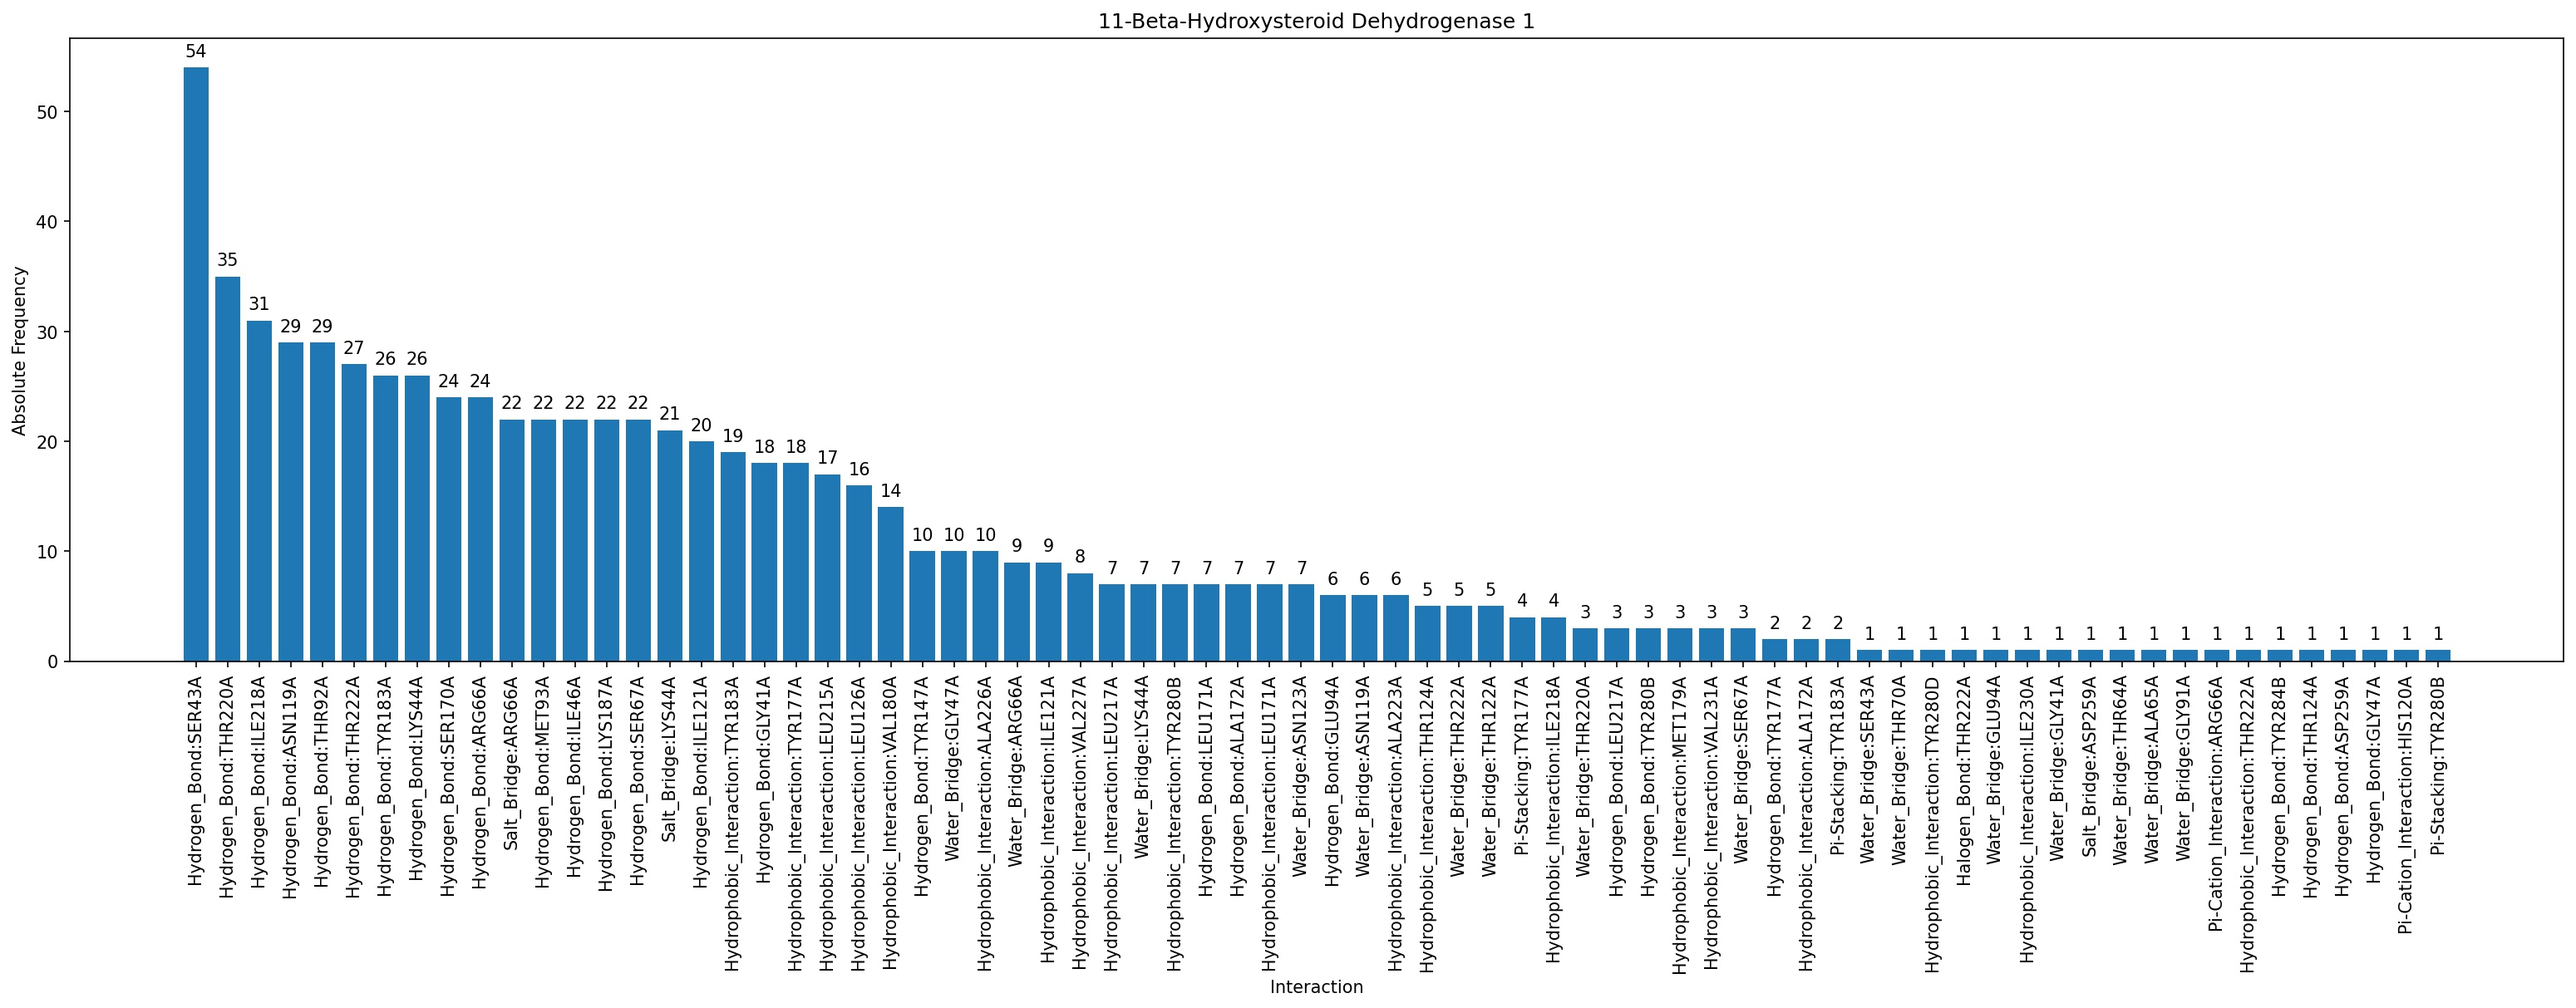
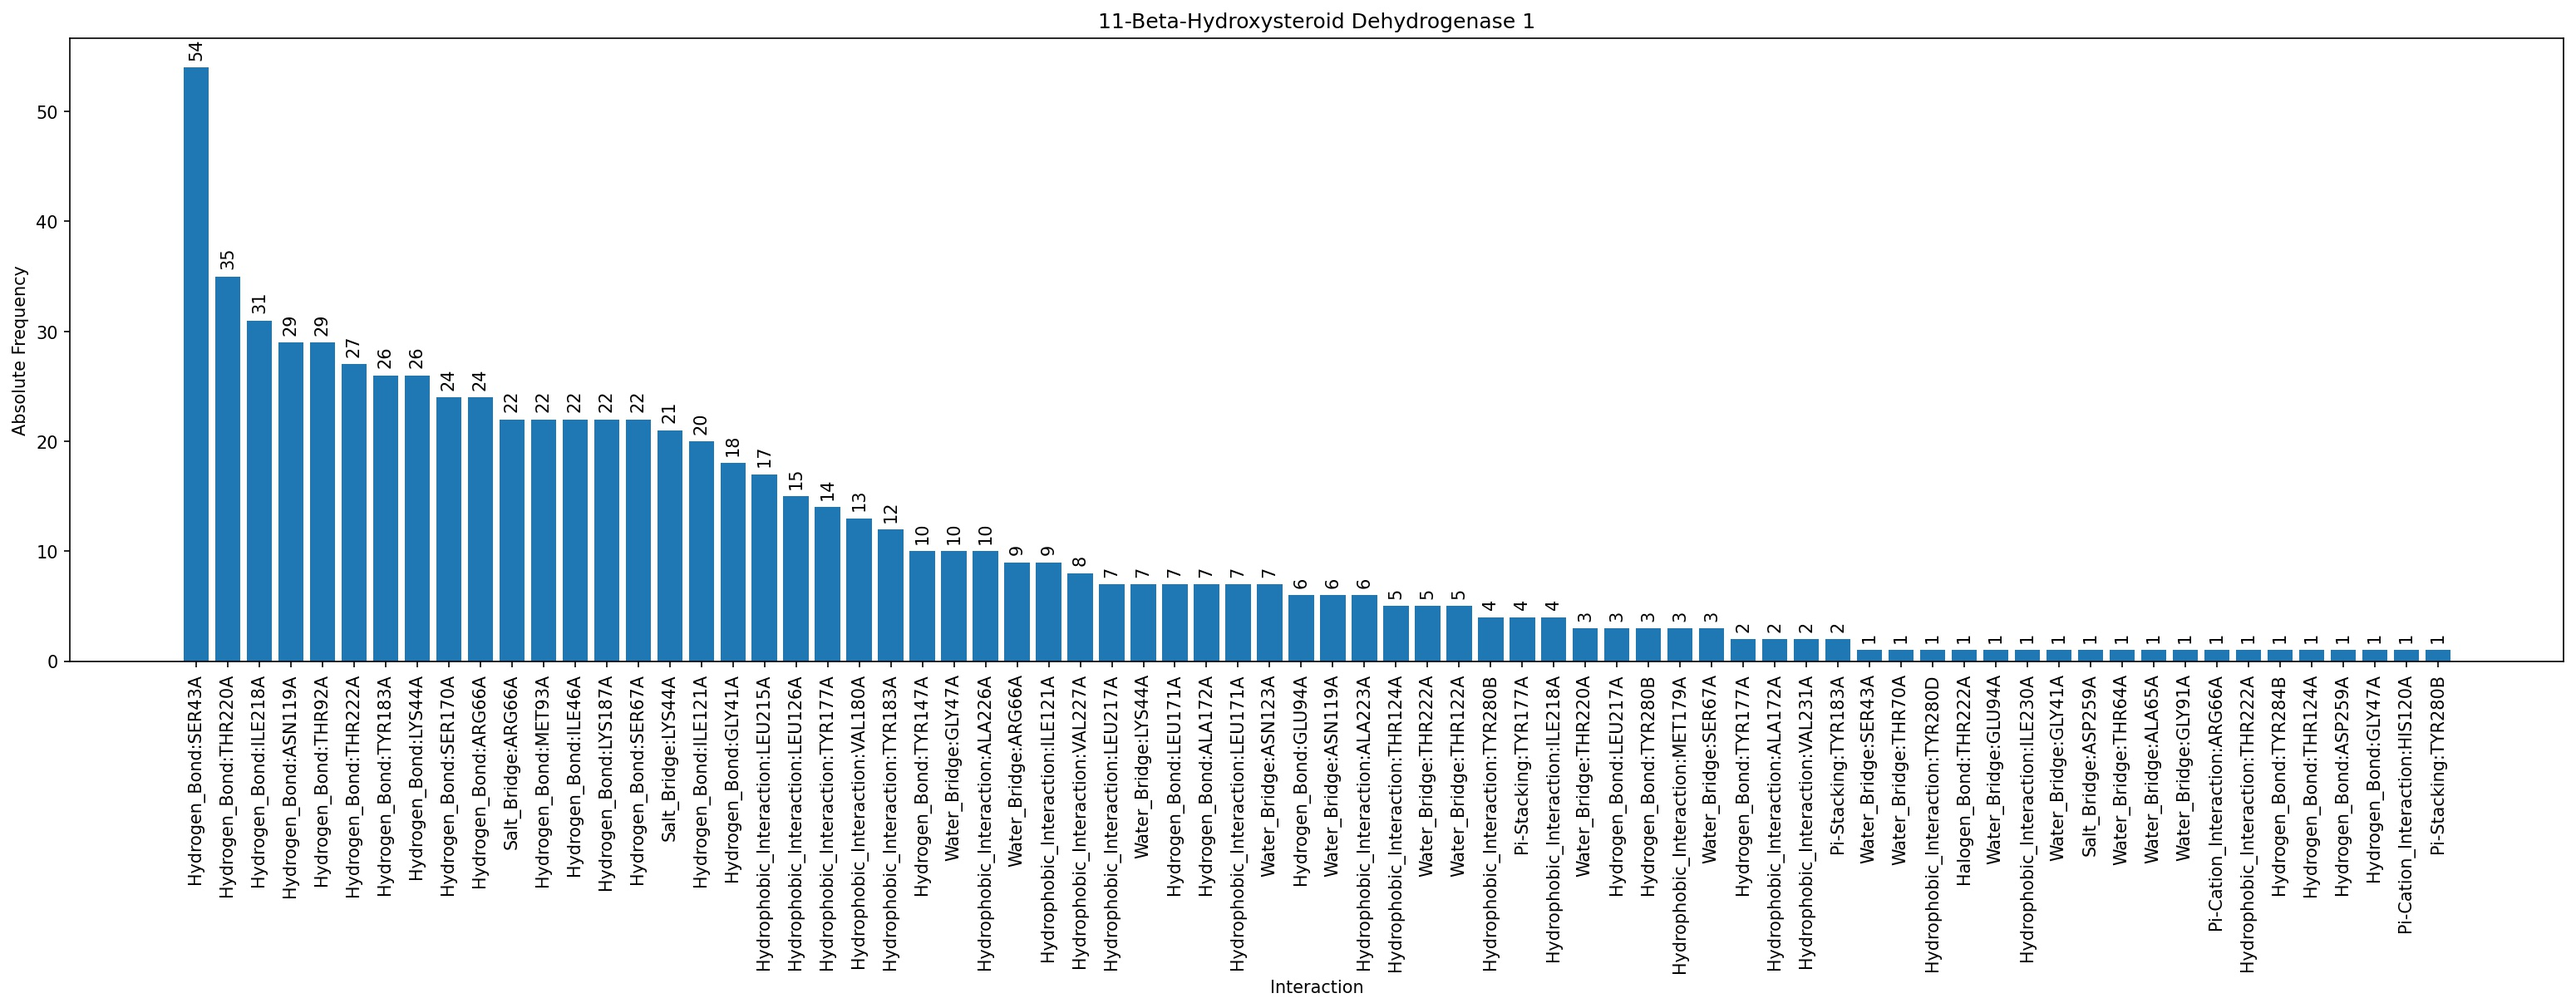
bump HSD11B1 results to newer version

diff --git a/data/11-beta-hydroxysteroid_dehydrogenase_1/plip_analysis.py b/data/11-beta-hydroxysteroid_dehydrogenase_1/plip_analysis.py
@@ -22,13 +22,21 @@ if __name__ == '__main__':
     PDB_ENTRIES = list(df["PDB_ENTRY"])
     print("First 5 PDB entries:")
     print(PDB_ENTRIES[:5])
-    result = pa(PDB_ENTRIES, path = "structures")
+    result = pa(PDB_ENTRIES, path = "structures", normalize = False)
     r = result.save("results/11-beta-hydroxysteroid_dehydrogenase_1")
     print("Result saved in:")
     print(r)
     r = result.to_csv("results/11-beta-hydroxysteroid_dehydrogenase_1_freq.csv")
     result.plot("11-Beta-Hydroxysteroid Dehydrogenase 1", filename = "results/11-beta-hydroxysteroid_dehydrogenase_1.jpg")
     result.plot("11-Beta-Hydroxysteroid Dehydrogenase 1", filename = "results/11-beta-hydroxysteroid_dehydrogenase_1.png")
+    # normalized analysis
+    result = pa(PDB_ENTRIES, path = "structures", normalize = True)
+    r = result.save("results/11-beta-hydroxysteroid_dehydrogenase_1_normalized")
+    print("Result saved in:")
+    print(r)
+    r = result.to_csv("results/11-beta-hydroxysteroid_dehydrogenase_1_normalized_freq.csv")
+    result.plot("11-Beta-Hydroxysteroid Dehydrogenase 1", filename = "results/11-beta-hydroxysteroid_dehydrogenase_1_normalized.jpg")
+    result.plot("11-Beta-Hydroxysteroid Dehydrogenase 1", filename = "results/11-beta-hydroxysteroid_dehydrogenase_1_normalized.png")
 
     # clean up
     os.remove("PLIPAnalyzer.py")
